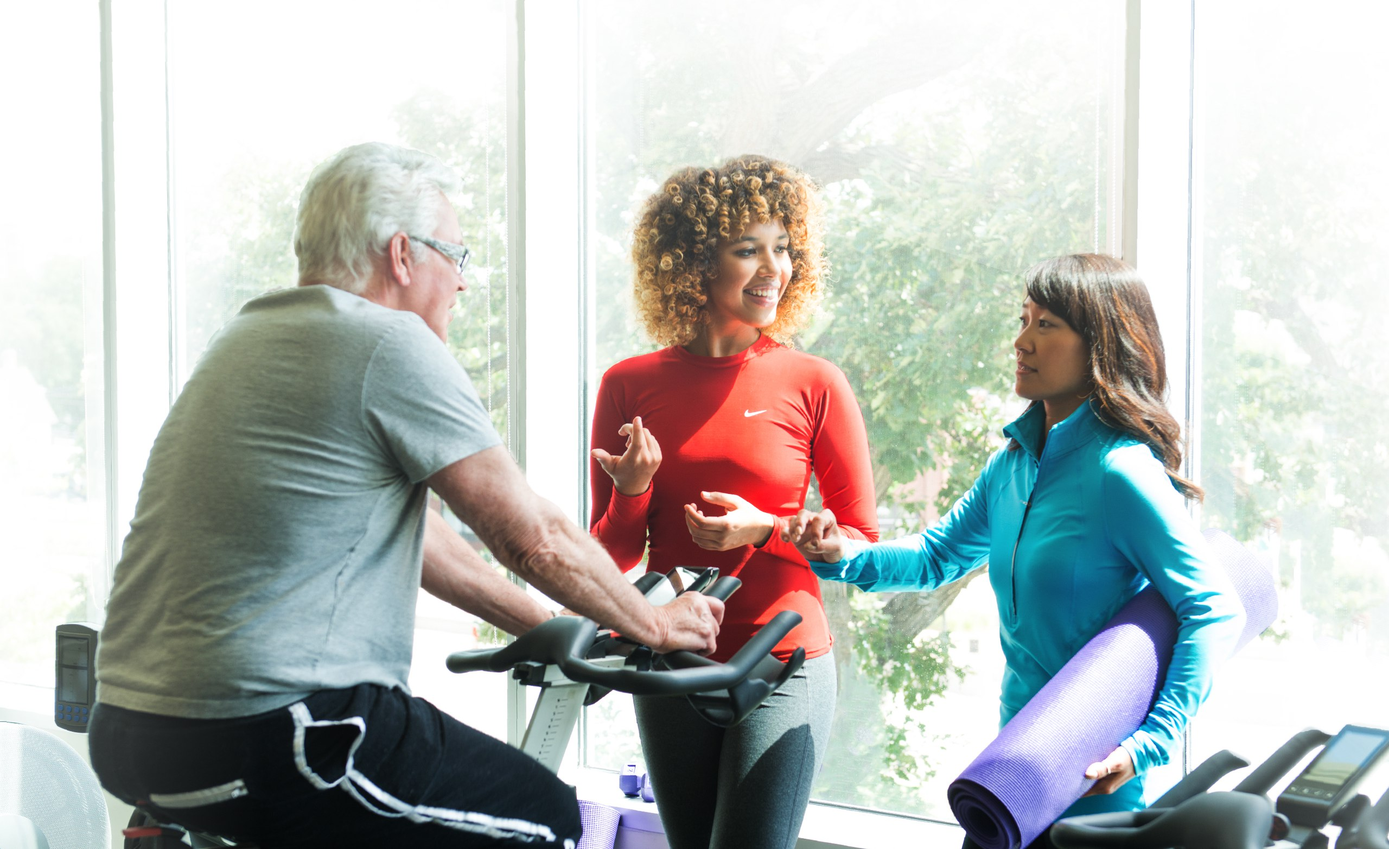
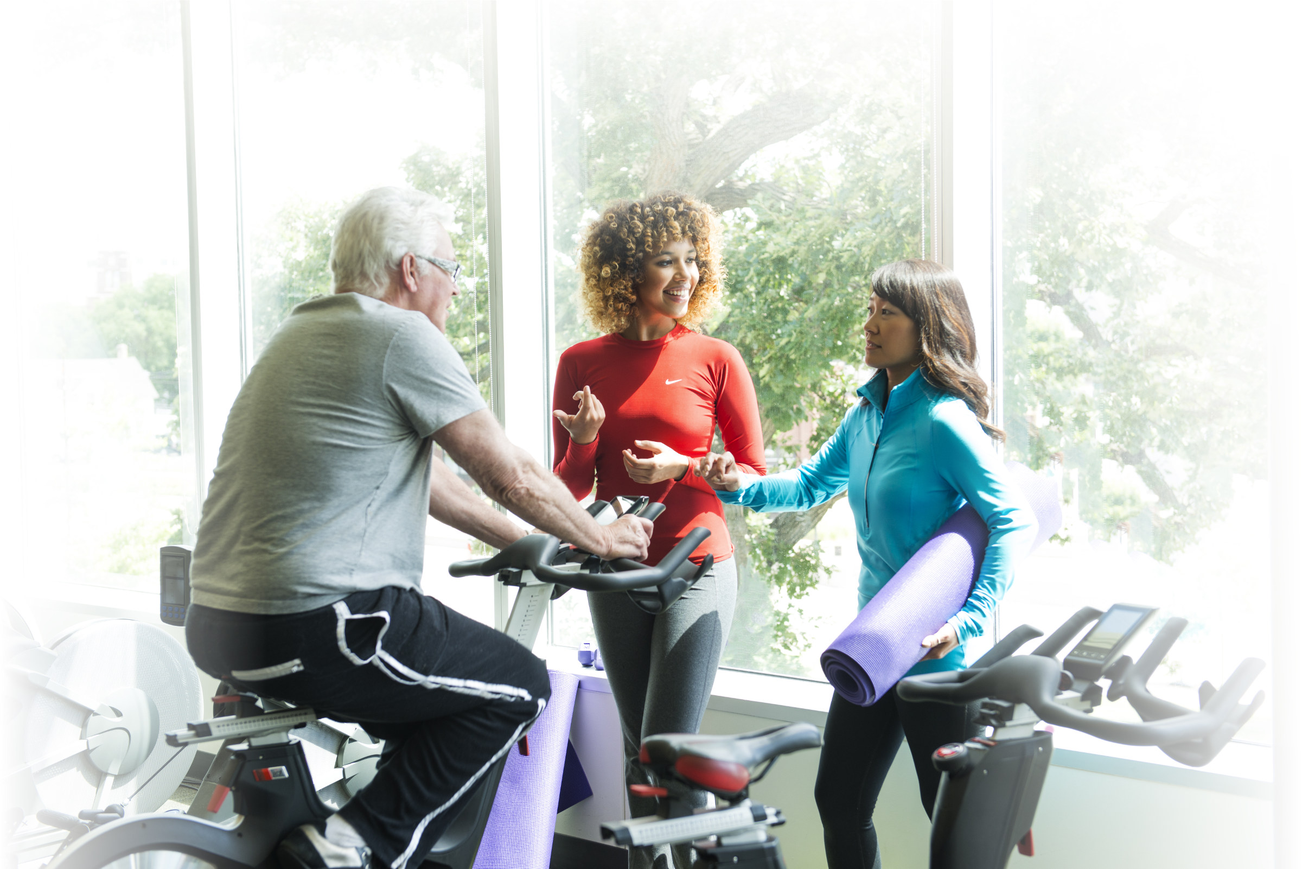
YMCA-1672 YMCA-1662 YMCA-1655 summer UI/text updates

diff --git a/docroot/themes/custom/ymca/css/ysr_2017_summer.css b/docroot/themes/custom/ymca/css/ysr_2017_summer.css
@@ -524,26 +524,17 @@ html, body {
   .compain-header {
     height: 670px;
     height: 67rem;
-    -moz-background-size: contain;
-    -o-background-size: contain;
-    -webkit-background-size: contain;
-    background-size: contain;
-    background-position: 50% -87px;
+    background-size: 1700px auto;
+    background-position: 50% -210px;
   }
 }
 .compain-header--content {
   background: #00aeef;
   bottom: 0;
-  padding-bottom: 26px;
-  padding-top: 10px;
+  padding-bottom: 10px;
+  padding-top: 20px;
   position: absolute;
   width: 100%;
-}
-@media (min-width: 48em) {
-  .compain-header--content {
-    padding-bottom: 26px;
-    padding-top: 13px;
-  }
 }
 .compain-header--content .logo {
   display: none;
@@ -678,8 +669,7 @@ html, body {
 }
 
 .compain-user-menu {
-  padding: 0 44px;
-  padding: 0 4.4rem;
+  padding: 9px 12%;
   height: 65px;
   height: 6.5rem;
   background: #006b6b;
@@ -719,6 +709,7 @@ html, body {
   .compain-user-menu span {
     line-height: 45px;
     line-height: 4.5rem;
+    font-weight: bold;
   }
 }
 @media (min-width: 48em) {
@@ -1594,6 +1585,9 @@ html, body {
   max-width: 76%;
 }
 
+.retention-campaign .tab-content:empty {
+  display: none;
+}
 .retention-campaign .tab-content #tab_1,
 .retention-campaign .tab-content #tab_5 {
   padding: 0 0 60px 0;
@@ -3192,19 +3186,17 @@ html, body {
     height: 0.6rem;
   }
 }
-@media (min-width: 48em) {
-  .compain-progress--line:before {
-    border-bottom: 6px dotted rgba(0, 107, 107, 0.2);
-    content: '';
-    height: 6px;
-    height: 0.6rem;
-    left: 0;
-    margin-top: -3px;
-    position: absolute;
-    top: 50%;
-    width: 100%;
-    z-index: 10;
-  }
+.compain-progress--line:before {
+  border-bottom: 6px dotted rgba(0, 107, 107, 0.2);
+  content: '';
+  height: 6px;
+  height: 0.6rem;
+  left: 0;
+  margin-top: -3px;
+  position: absolute;
+  top: 50%;
+  width: 100%;
+  z-index: 10;
 }
 .compain-progress--line .line {
   background: #00aeef;

diff --git a/docroot/themes/custom/ymca/sass/ysr_2017_summer/_header.scss b/docroot/themes/custom/ymca/sass/ysr_2017_summer/_header.scss
@@ -10,25 +10,19 @@
 
   @include breakpoint($tablet-landscape) {
     @include rem(height, 670px);
-    @include background-size(contain);
-    background-position: 50% -87px;
+    background-size: 1700px auto;
+    background-position: 50% -210px;
   }
 
   &--content {
     background: $blue;
     bottom: 0;
     padding: {
-      bottom: 26px;
-      top: 10px;
+      bottom: 10px;
+      top: 20px;
     }
     position: absolute;
     width: 100%;
-    @include breakpoint($tablet) {
-      padding: {
-        bottom: 26px;
-        top: 13px;
-      }
-    }
 
     .logo {
       display: none;
@@ -144,7 +138,7 @@
 }
 
 .compain-user-menu {
-  @include rem(padding, 0 44px);
+  padding: 9px 12%;
   @include rem(height, 65px);
   background: $green-dark;
   position: absolute;
@@ -173,6 +167,7 @@
 
     @include breakpoint(max-width ($tablet - 1)) {
       @include rem(line-height, 45px);
+      font-weight: bold;
     }
 
     @include breakpoint($tablet) {

diff --git a/docroot/themes/custom/ymca/sass/ysr_2017_summer/components/_my-progress.scss b/docroot/themes/custom/ymca/sass/ysr_2017_summer/components/_my-progress.scss
@@ -130,7 +130,6 @@
     }
 
     &:before {
-      @include breakpoint($tablet) {
         border-bottom: 6px dotted rgba($green-dark, 0.2);
         content: '';
         @include rem(height, 6px);
@@ -140,7 +139,6 @@
         top: 50%;
         width: 100%;
         z-index: 10;
-      }
     }
 
     .line {

diff --git a/docroot/themes/custom/ymca/sass/ysr_2017_summer/_tabs-content.scss b/docroot/themes/custom/ymca/sass/ysr_2017_summer/_tabs-content.scss
@@ -496,6 +496,9 @@
 
 .retention-campaign {
   .tab-content {
+    &:empty {
+      display: none;
+    }
     #tab_1,
     #tab_5 {
       @include rem(padding, 0 0 60px 0);

diff --git a/docroot/modules/custom/ymca_retention/src/Form/MemberRegisterForm.php b/docroot/modules/custom/ymca_retention/src/Form/MemberRegisterForm.php
@@ -322,13 +322,13 @@ class MemberRegisterForm extends FormBase {
 
     // Validate dates.
     if ($current_date < $open_date) {
-      $form_state->setErrorByName('form', $this->t('Registration begins %date when the Y spirit challenge open.', [
+      $form_state->setErrorByName('form', $this->t('Registration begins %date when the Y Strive challenge open.', [
         '%date' => $open_date->format('F j'),
       ]));
       return;
     }
     if ($current_date > $close_date) {
-      $form_state->setErrorByName('form', $this->t('The Y spirit challenge is now closed and registration is no longer able to be tracked.'));
+      $form_state->setErrorByName('form', $this->t('The Y Strive challenge is now closed and registration is no longer able to be tracked.'));
       return;
     }
 

diff --git a/docroot/modules/custom/ymca_retention/src/Form/MemberLoginForm.php b/docroot/modules/custom/ymca_retention/src/Form/MemberLoginForm.php
@@ -280,7 +280,7 @@ class MemberLoginForm extends FormBase {
       $result = $query->execute();
       if (empty($result)) {
         $args = ['%mid' => $membership_id];
-        $msg = 'Member with member ID %mid is not registered. Please register.';
+        $msg = 'Member with member ID %mid is not registered. <a href="#" data-toggle="modal" data-target="#ymca-retention-modal" data-type="register">Please register</a>';
 
         if ($mail) {
           $msg = 'Member with email %mail and member ID %mid is not registered. Please register.';
